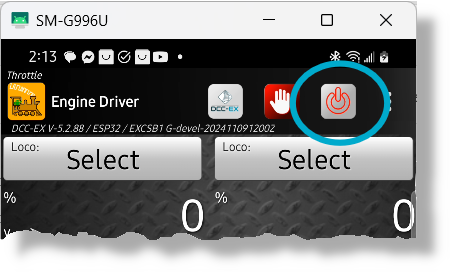
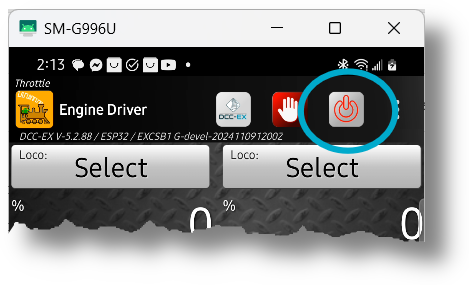
Add transparent background to pwr btn image

Changed region(s): [[0.0, 0.0, 0.9644, 0.9706], [0.6222, 0.7353, 0.6533, 0.7647]]

diff --git a/docs/ex-csb1/index.rst b/docs/ex-csb1/index.rst
@@ -62,14 +62,14 @@ The EX-CSB1's robust, single-PCB design includes integrated MOSFET motor drivers
 
 With its dual role as a command station or booster, the EX-CSB1 can be strategically placed around a layout, seamlessly switching to booster mode upon detecting a RailSync input signal. This feature is particularly useful for modular layouts, ensuring smooth operation across different sections once joined together and slaved to a master DCC signal. Distributing power around the layout also reduces the cost of heavy copper lines to carry the DCC signal that would otherwise be needed with centralised power.
 
+An additional DCC-EX EX-MotorShield 8874 can be inserted onto the command station board to provide two more DCC or PWM DC outputs with the same performance characteristics and output mode flexibility.
+
 .. figure:: /_static/images/ex-csb1/csb1_stacked.png
    :alt: EX-CSB1 Stacked with EX-MotorShield8874
-   :scale: 80%
+   :scale: 60%
    :align: center
+
    EX-CSB1 Stacked with EX-MotorShield8874
-
-
-An additional DCC-EX EX-MotorShield 8874 can be inserted onto the command station board to provide two more DCC or PWM DC outputs with the same performance characteristics and output mode flexibility.
 
 The system includes comprehensive protection features such as reverse polarity protection, hardware and software overcurrent protection, overvoltage protection, and thermal protection. It also provides clear status indications via LEDs for microcontroller power, track input supply, track output power per output channel, DCC/DC mode indication and direction for DC mode, and WiFi connection status.
 
@@ -134,7 +134,7 @@ Board layout
    :scale: 70%
    :align: right
 
-**Track Power LEDs** - These are indicators that power is being sent to the track, and the mode of the output. With DCC operation, both LEDs should shine brightly when your throttle issues the power-on command. You can also configure the CSB1 to start with power on using a mySetup.h or myAutomation.h file. See more here XXX. For DC PWM mode operation, when power is on, ONE LED will light for each direction. That is, forward will light one LED and when you select reverse, the other LED will light. 
+**Track Power LEDs** - These are indicators that power is being sent to the track, and the mode of the output. With DCC operation, both LEDs should shine brightly when your throttle issues the power-on command. You can also configure the CSB1 to start with power on using a mySetup.h or myAutomation.h file. See more here :doc:`/ex-commandstation/advanced-setup/startup-config`. For DC PWM mode operation, when power is on, ONE LED will light for each direction. That is, forward will light one LED and when you select reverse, the other LED will light. 
 
 .. image:: /_static/images/ex-csb1/qwiic_conn.png
    :alt: Qwiic Connector
